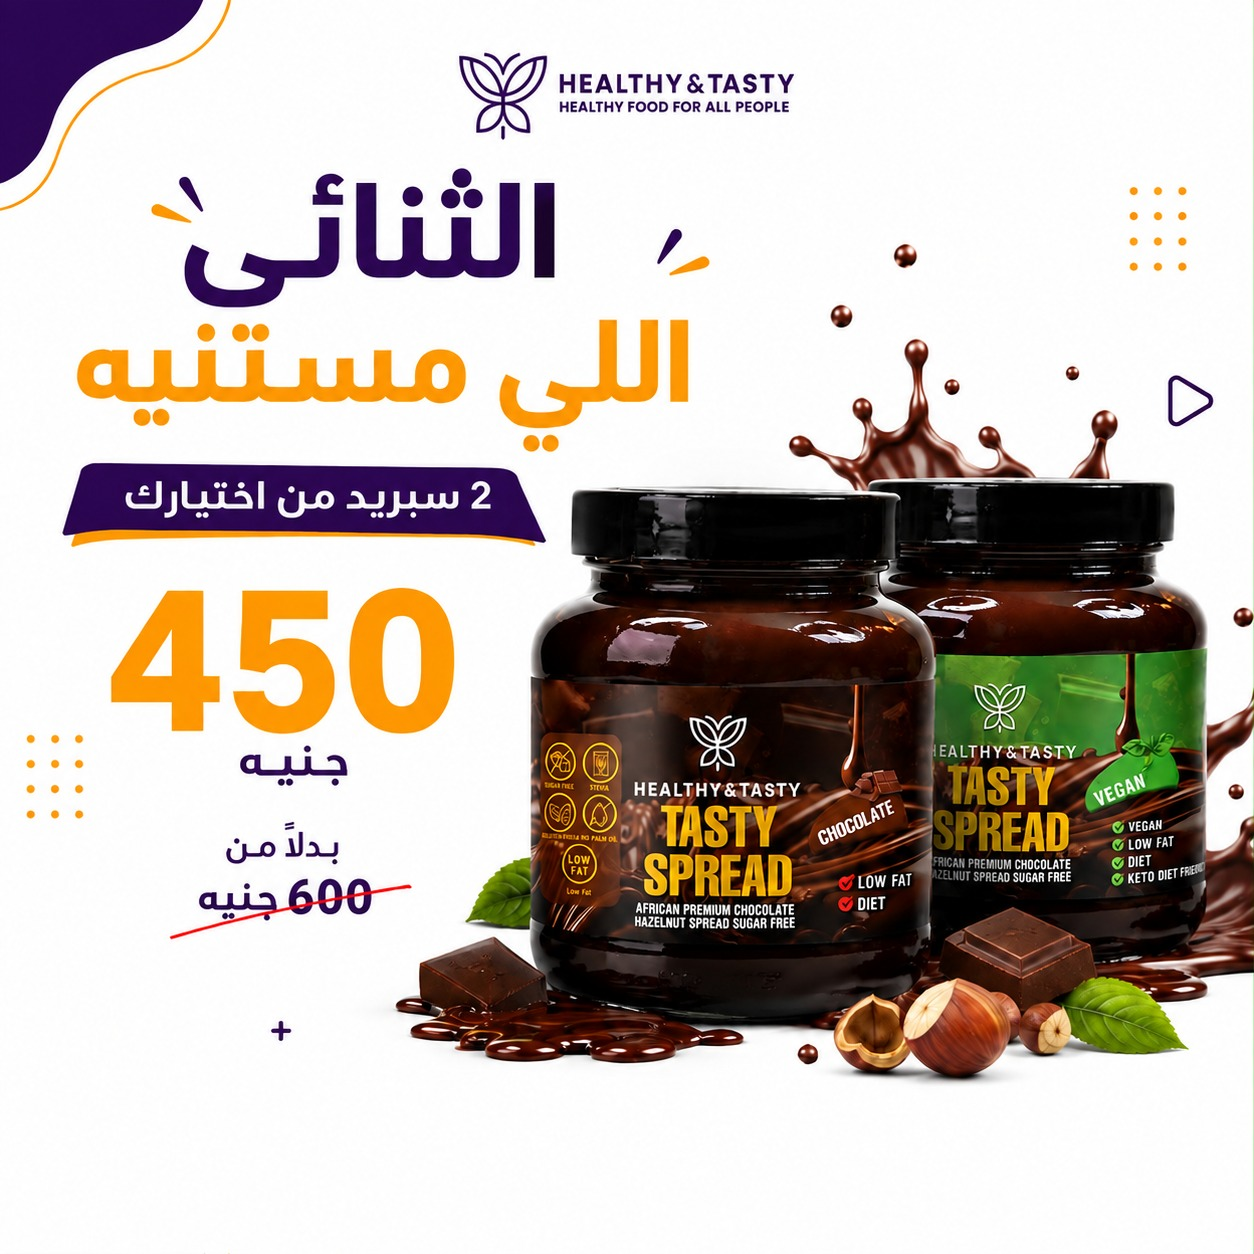
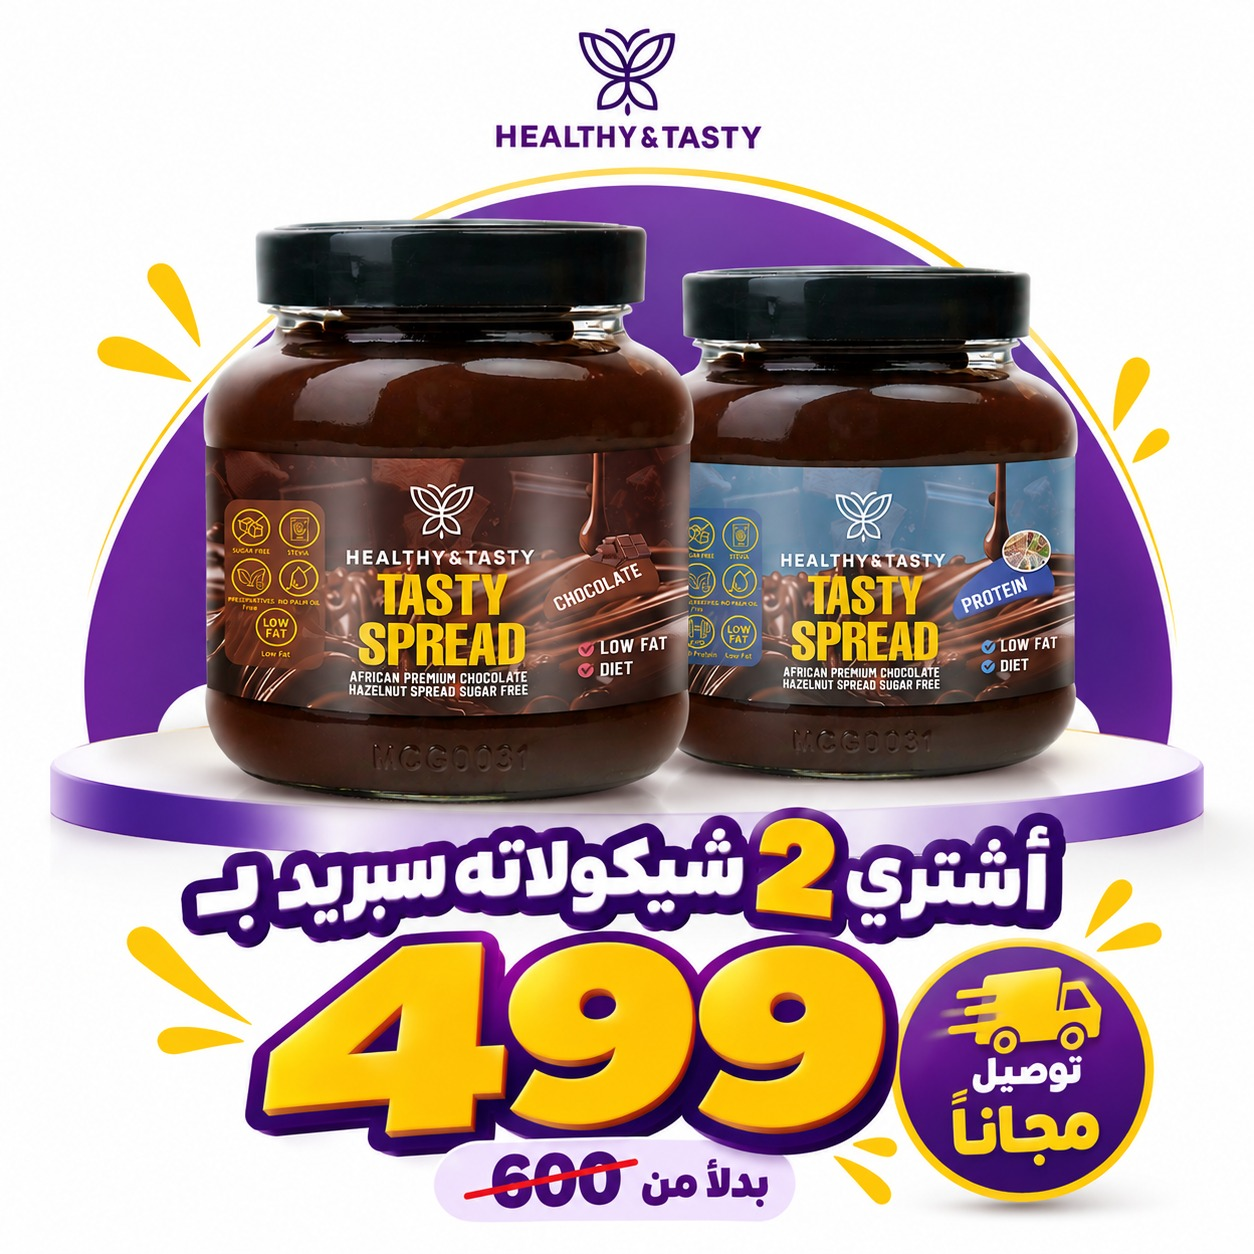
update offer prices +50 and add new offer images (3ard1/2/3)

diff --git a/src/data/landingData.js b/src/data/landingData.js
@@ -102,11 +102,11 @@ export const landingData = {
     {
       id: 'two-jars',
       title: 'العرض الأول',
-      amount: 'عرض القطعتين ب 450 جنيه بدلاً من 600 جنيه',
+      amount: 'عرض القطعتين ب 500 جنيه بدلاً من 600 جنيه',
       description: '',
-      price: 450,
+      price: 500,
       originalPrice: 600,
-      saving: 150,
+      saving: 100,
       unitsPerPack: 2,
       maxFlavors: 9,
       badge: 'توفير 🔥',
@@ -116,11 +116,11 @@ export const landingData = {
     {
       id: 'three-jars',
       title: 'العرض الثاني',
-      amount: 'عرض ال 3 قطع ب 650 جنيه بدلاً من 900 جنيه',
+      amount: 'عرض ال 3 قطع ب 700 جنيه بدلاً من 900 جنيه',
       description: '',
-      price: 650,
+      price: 700,
       originalPrice: 900,
-      saving: 250,
+      saving: 200,
       unitsPerPack: 3,
       maxFlavors: 9,
       badge: '⭐ الأكثر طلبًا',
@@ -130,11 +130,11 @@ export const landingData = {
     {
       id: 'four-jars',
       title: 'العرض الثالث',
-      amount: 'عرض ال 4 قطع ب 850 بدلاً من 1200 جنيه',
+      amount: 'عرض ال 4 قطع ب 900 جنيه بدلاً من 1200 جنيه',
       description: '',
-      price: 850,
+      price: 900,
       originalPrice: 1200,
-      saving: 350,
+      saving: 300,
       unitsPerPack: 4,
       maxFlavors: 9,
       badge: 'أكبر توفير 🔥',
